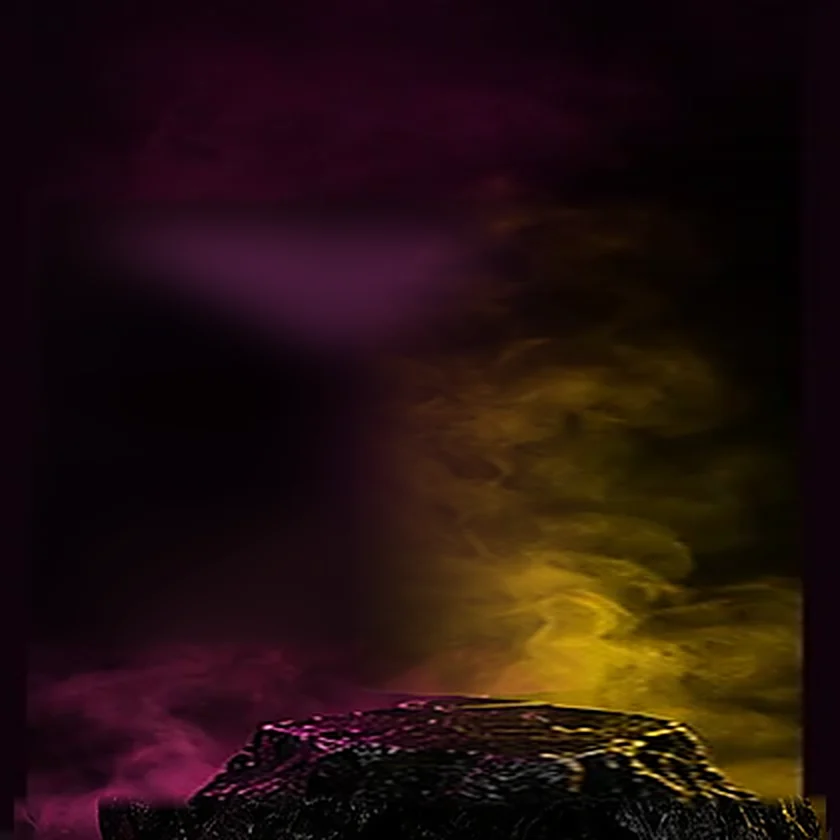
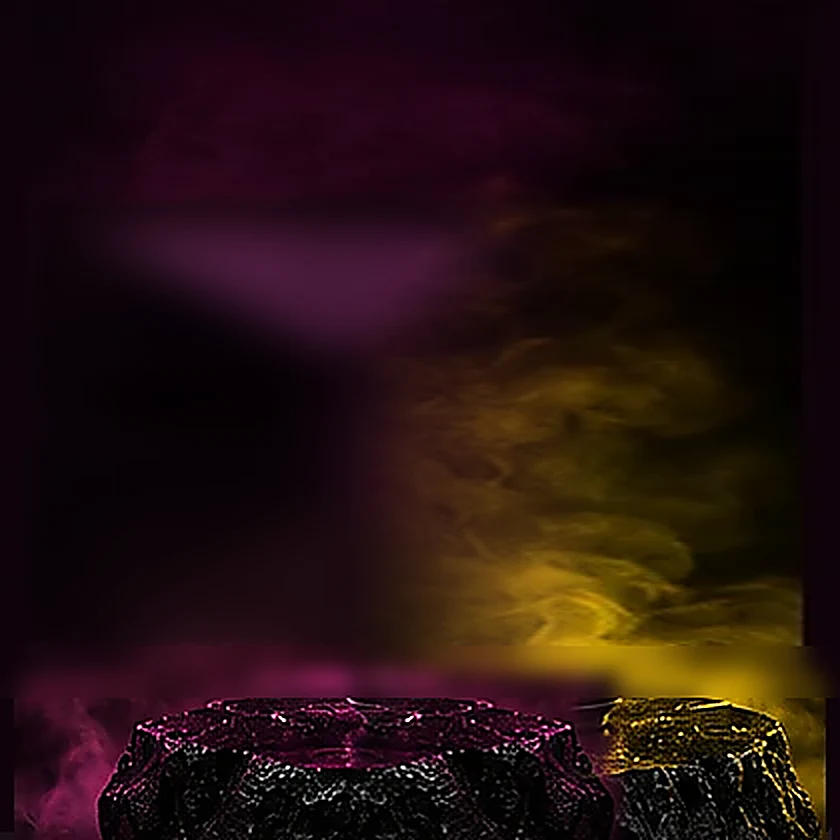
Hero: PLAY en amarillo, lata nítida, sello fuera de en medio, roca con detalle
PLAY EN AMARILLO
Como en la sesión de fotos. Rompe la columna rosa por el centro y es lo que
hace que el bloque no se lea como un párrafo.

LA LATA VUELVE A SER NÍTIDA
Estaba recortada de can-mood.webp, que solo existe a 420x420: la lata salía
a 138 px y en el hero se ve hasta a 214, o sea ampliada vez y media. Por eso
la letra pequeña se veía sucia.

Ahora es can-cutout.png —254x682— reiluminada para la escena: se oscurece un
punto para hundirse en el fondo y se le añaden los dos bordes de luz que
tiene el escenario, rosa por la izquierda y amarillo por la derecha. Como se
ve REDUCIDA en vez de ampliada, sale más nítida que nunca: se lee 250 ML y
hasta SIN TAURINA · VEGANA · SIN AZÚCAR.

EL SELLO DEJA DE TAPAR LA LATA
Pasa a la esquina inferior izquierda. Además equilibra: lema arriba a la
izquierda, sello abajo, lata a la derecha.

LA ROCA RECUPERA EL DETALLE
El fondo se reconstruía estirando la imagen entera, y la roca —que sí tiene
detalle fino— se estiraba con el humo y salía borrosa. Ahora se tratan por
separado: el humo se estira para cerrar el hueco de la lata (no tiene
estructura que perder) y la roca se conserva del original, tapando solo la
huella de la lata con un trozo de la propia roca espejado. Al ampliar, el
enfoque va guiado: fuerte abajo, suave arriba.

MÓVIL
La lata nueva es más esbelta (2,7 de alto por 1 de ancho) y al 40% se salía
del panel por abajo. Baja al 34% y el panel crece a 470px. Medido en el
[…]

Changed region(s): [[0.031, 0.7738, 0.9905, 1.0], [0.0, 0.9286, 0.031, 0.9595]]

diff --git a/astro-site/src/styles/styles.css b/astro-site/src/styles/styles.css
@@ -486,6 +486,9 @@ body::after {
   color: var(--pink);
   text-shadow: 0 2px 14px rgba(5, 5, 8, .6);
 }
+/* PLAY en amarillo, como en la sesión de fotos: rompe la columna rosa por el
+   centro y es lo que hace que el bloque no se lea como un párrafo. */
+.hv-lema em { font-style: normal; color: var(--yellow); }
 .hv-lema::after {
   content: "";
   display: block;
@@ -520,7 +523,10 @@ body::after {
   transition: transform .4s var(--ease-snap), filter .4s var(--ease-snap);
 }
 .hv-obj img { width: 100%; height: auto; display: block; }
-.hero .stamp-spin { z-index: 4; right: -7%; bottom: -6%; }
+/* El sello pasa a la esquina inferior IZQUIERDA. A la derecha se comía la lata,
+   que ahora está de pie sobre la roca y es lo que hay que ver. Aquí además
+   equilibra: lema arriba a la izquierda, sello abajo, lata a la derecha. */
+.hero .stamp-spin { z-index: 4; left: -6%; right: auto; bottom: -7%; }
 .hero .stamp-ring { stroke: var(--yellow); }
 .hero .stamp-text { fill: var(--yellow); }
 .hero-badge { z-index: 4; }
@@ -1992,10 +1998,12 @@ body::after {
   .stat:nth-child(1), .stat:nth-child(2) { border-bottom: 4px solid var(--line-dark); }
   /* sin override de tamaño: el clamp base ya da 58px aquí, que es lo máximo que
      admite "FOLLOW THE" en una línea. fitTitle() queda como red de seguridad. */
-  .hero-visual { min-height: 430px; }
+  .hero-visual { min-height: 470px; }
   /* El escenario es estrecho: la lata se estrecha y se va al borde para dejarle
-     su columna al lema, que si no queda debajo de ella. */
-  .hv-can { right: 6%; left: auto; bottom: 6%; width: 40%; }
+     su columna al lema, que si no queda debajo de ella.
+     El 34% no es estético: la lata mide 2,7 de alto por 1 de ancho, así que a
+     más de eso su altura se sale del panel y la corta la pantalla. */
+  .hv-can { right: 5%; left: auto; bottom: 9%; width: 34%; }
   .hv-lema {
     left: 5%; top: 22%;
     font-size: 13px; letter-spacing: 2.5px; line-height: 1.95;
